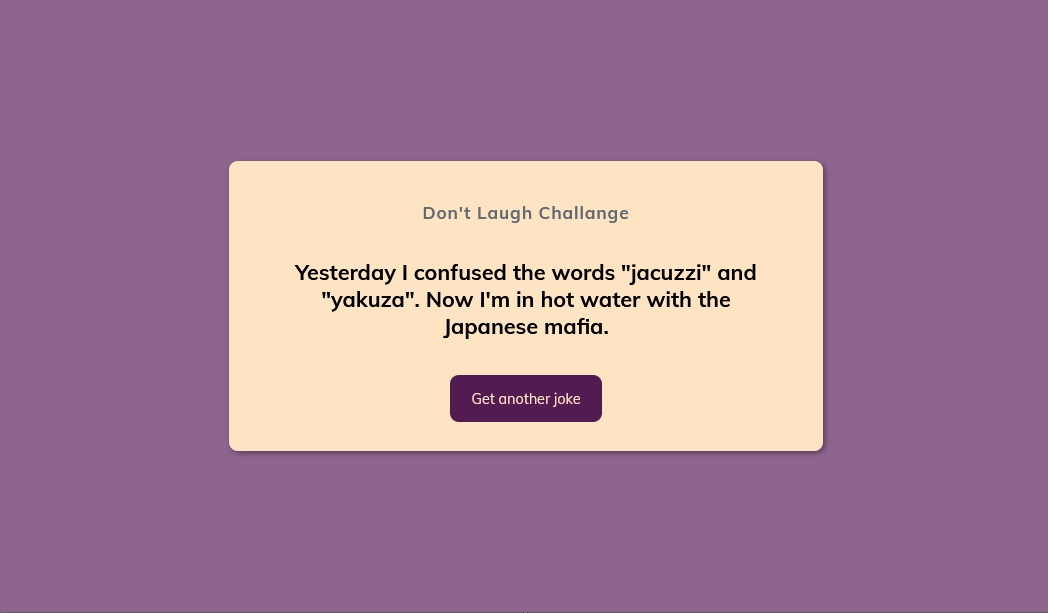
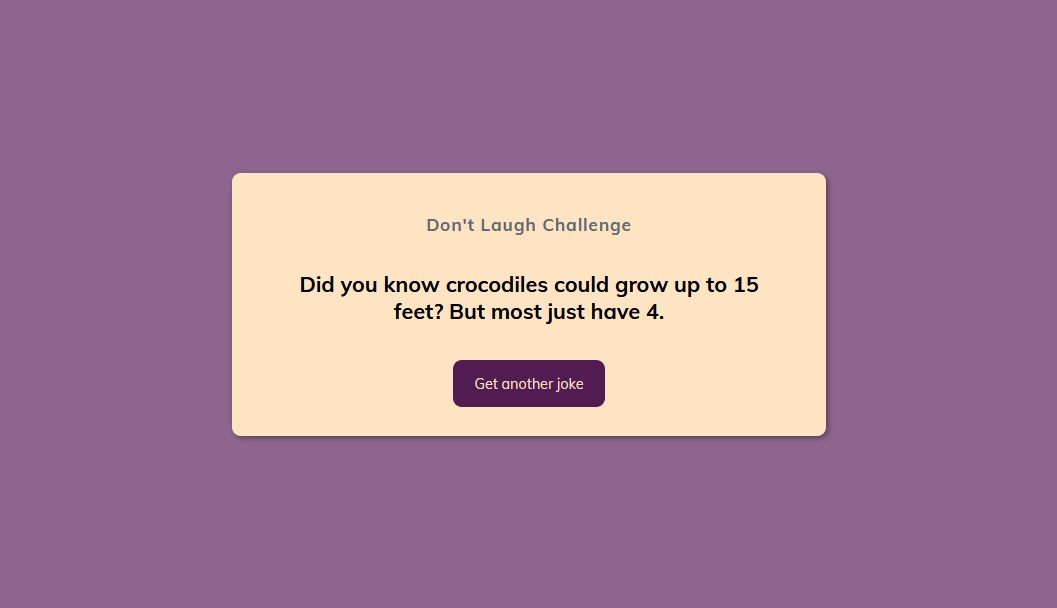
fix a typo

Changed region(s): [[0.2137, 0.25, 0.7939, 0.75], [0.2748, 0.4375, 0.7328, 0.5625], [0.3969, 0.3438, 0.6107, 0.4062]]

diff --git a/Components/DadJokes/DadJokes.html b/Components/DadJokes/DadJokes.html
@@ -16,7 +16,7 @@
   <body>
     <a class="back-button" href="../../index.html">Back</a>
     <div class="container">
-      <h1>Don't Laugh Challange</h1>
+      <h1>Don't Laugh Challenge</h1>
       <p class="joke"></p>
       <button class="next-btn">Get another joke</button>
     </div>
